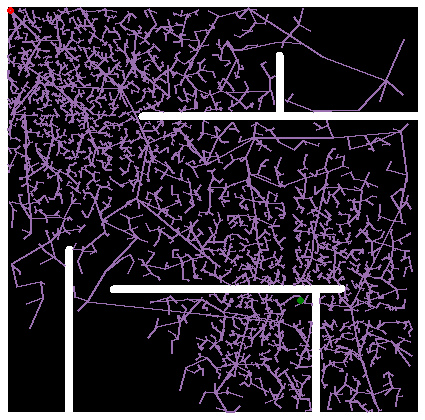
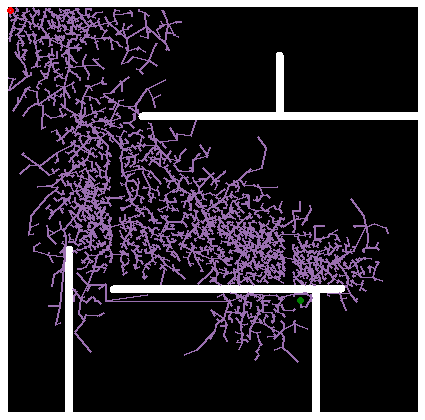
Once destination found, start using node weightage more.

diff --git a/rtt.py b/rtt.py
@@ -24,7 +24,7 @@ def check_node(coord):
 
 
 def sample_node(root_node):
-    search_radius = 80
+    search_radius = 20
 
     min_x = max(0, root_node[0] - search_radius)
     max_x = min(len(grid) - 1, root_node[0] + search_radius)
@@ -71,6 +71,7 @@ def rtt(num_iters, start, end):
 
     gamma = .9
     gamma_init = gamma
+    found_end = False
 
     nodes = []
     weights = []
@@ -81,12 +82,13 @@ def rtt(num_iters, start, end):
 
     for i in range(num_iters):
         print(i)
-        # nodes.sort(key=lambda x: distance(x, end), reverse=True)
-        # root_node = random.choice(nodes[-1 * min(len(nodes) - 1, 100):])
+        nodes.sort(key=lambda x: distance(x, start))
+
         if random.random() > gamma:
             root_node = random.choices(nodes, weights=weights, k=1)[0]
         else:
-            root_node = random.choice(nodes)
+            # root_node = random.choice(nodes)
+            root_node = random.choice(nodes[-1 * min(len(nodes) - 1, 100):])
 
         # gamma -= gamma_init / num_iters
 
@@ -101,9 +103,10 @@ def rtt(num_iters, start, end):
             i += 1
 
         if (i%10 == 0):
-            if (find_nearest_node(end, nodes)) is not None:
+            if not found_end and (find_nearest_node(end, nodes)) is not None:
                 print("MEO")
                 gamma = .3
+                found_end = True
 
             grid_to_image(grid, edges, 'test.png')
             imp = pygame.image.load('./test.png').convert()
